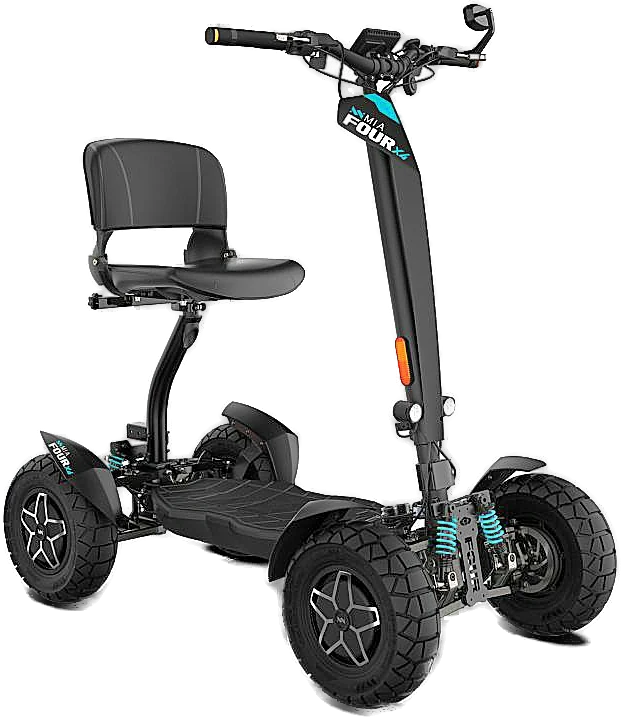
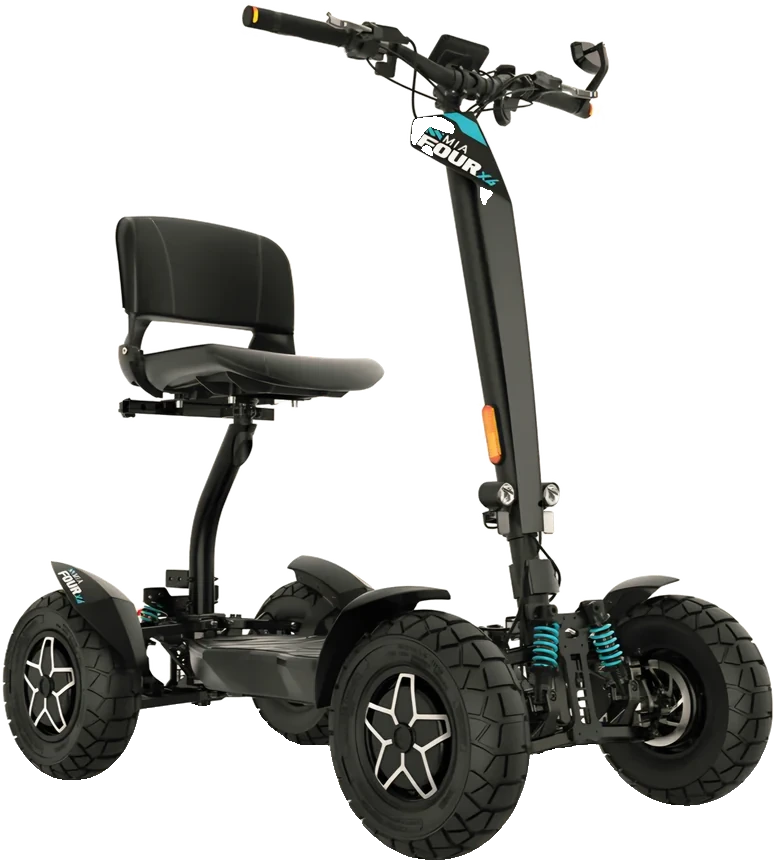
feat(configurator): premium Mia FOUR X4 render for the 3 model cards
Replace the hero cutout with a cleaner, higher-fidelity Mia FOUR X4 front-3/4
render (with seat) used across all three configurator model cards and the 3D
Deal Aura showcase. Matted with the isnet-general-use model, which preserves the
thin handlebar stem and the seat cleanly (u2net ghosted the upper half on this
render). Card <Image> intrinsic dimensions updated to the new aspect (774×860)
so it renders without distortion.

Verified: build + typecheck pass; the three cards confirmed visually in
headless Chromium.

Claude-Session: https://claude.ai/code/session_01MbymaUtwFWMGDpYLdCPwZf

diff --git a/components/Configurator.tsx b/components/Configurator.tsx
@@ -239,8 +239,8 @@ export default function Configurator() {
                     <Image
                       src="/mia-four-x4-hero.webp"
                       alt={m.name}
-                      width={621}
-                      height={717}
+                      width={774}
+                      height={860}
                       className="card-veh"
                     />
                   </div>